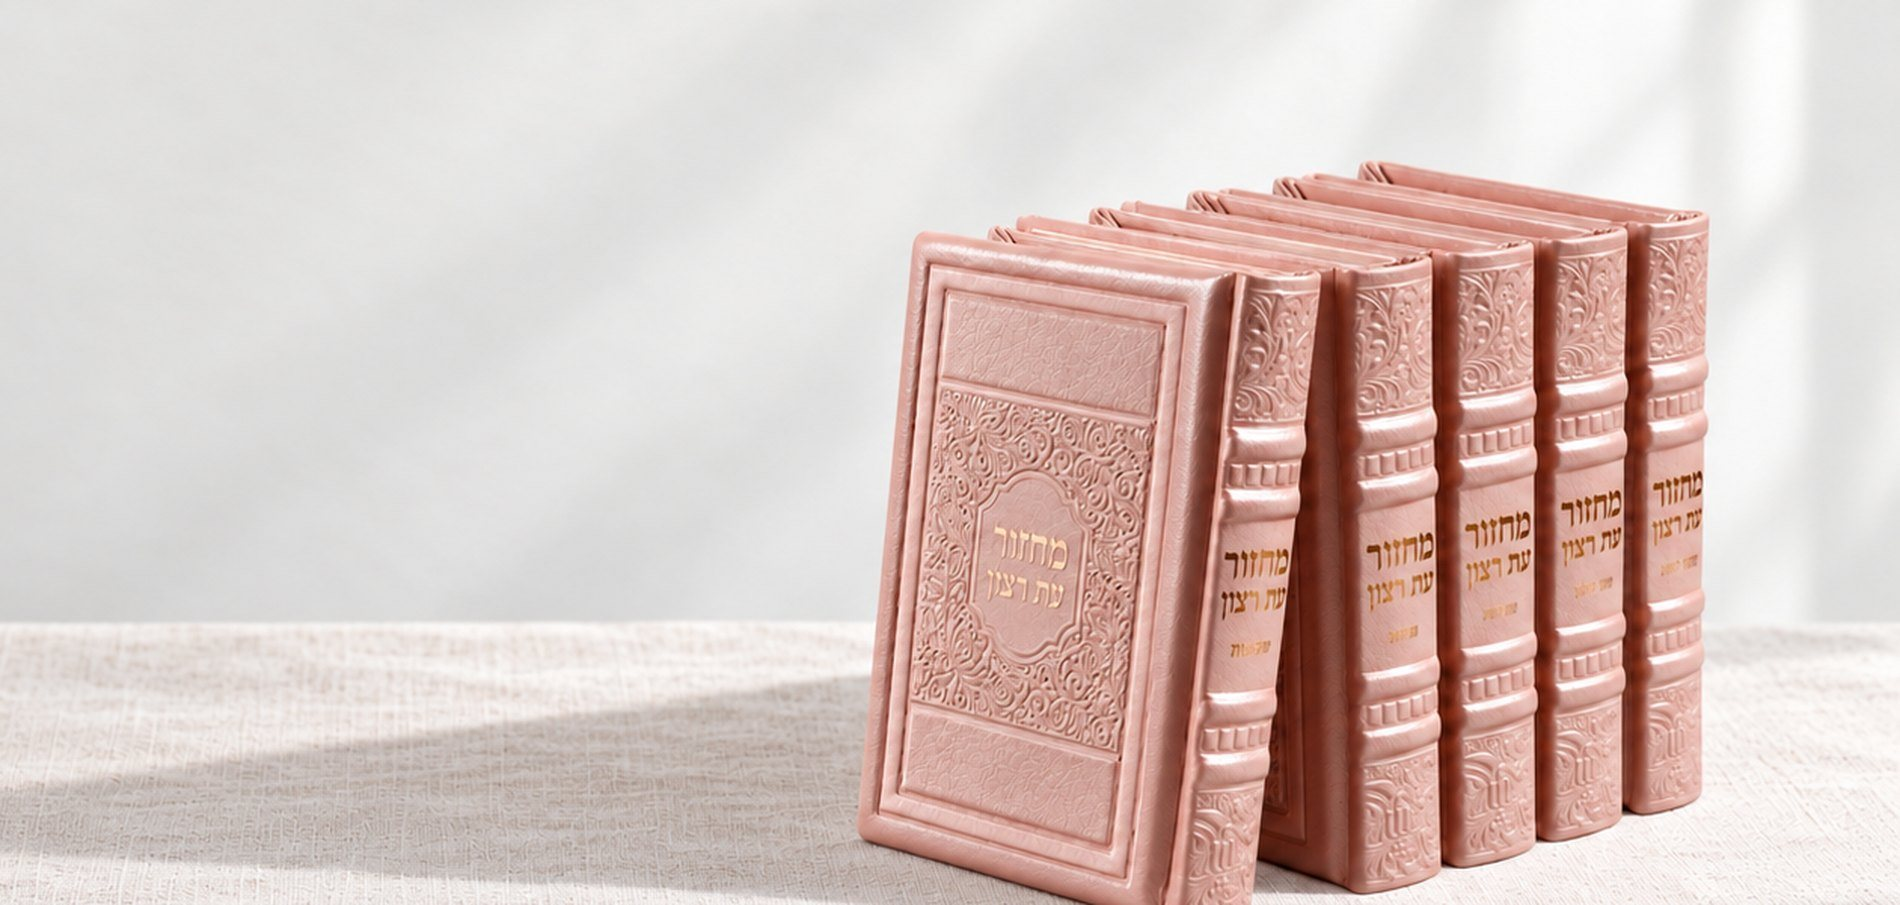
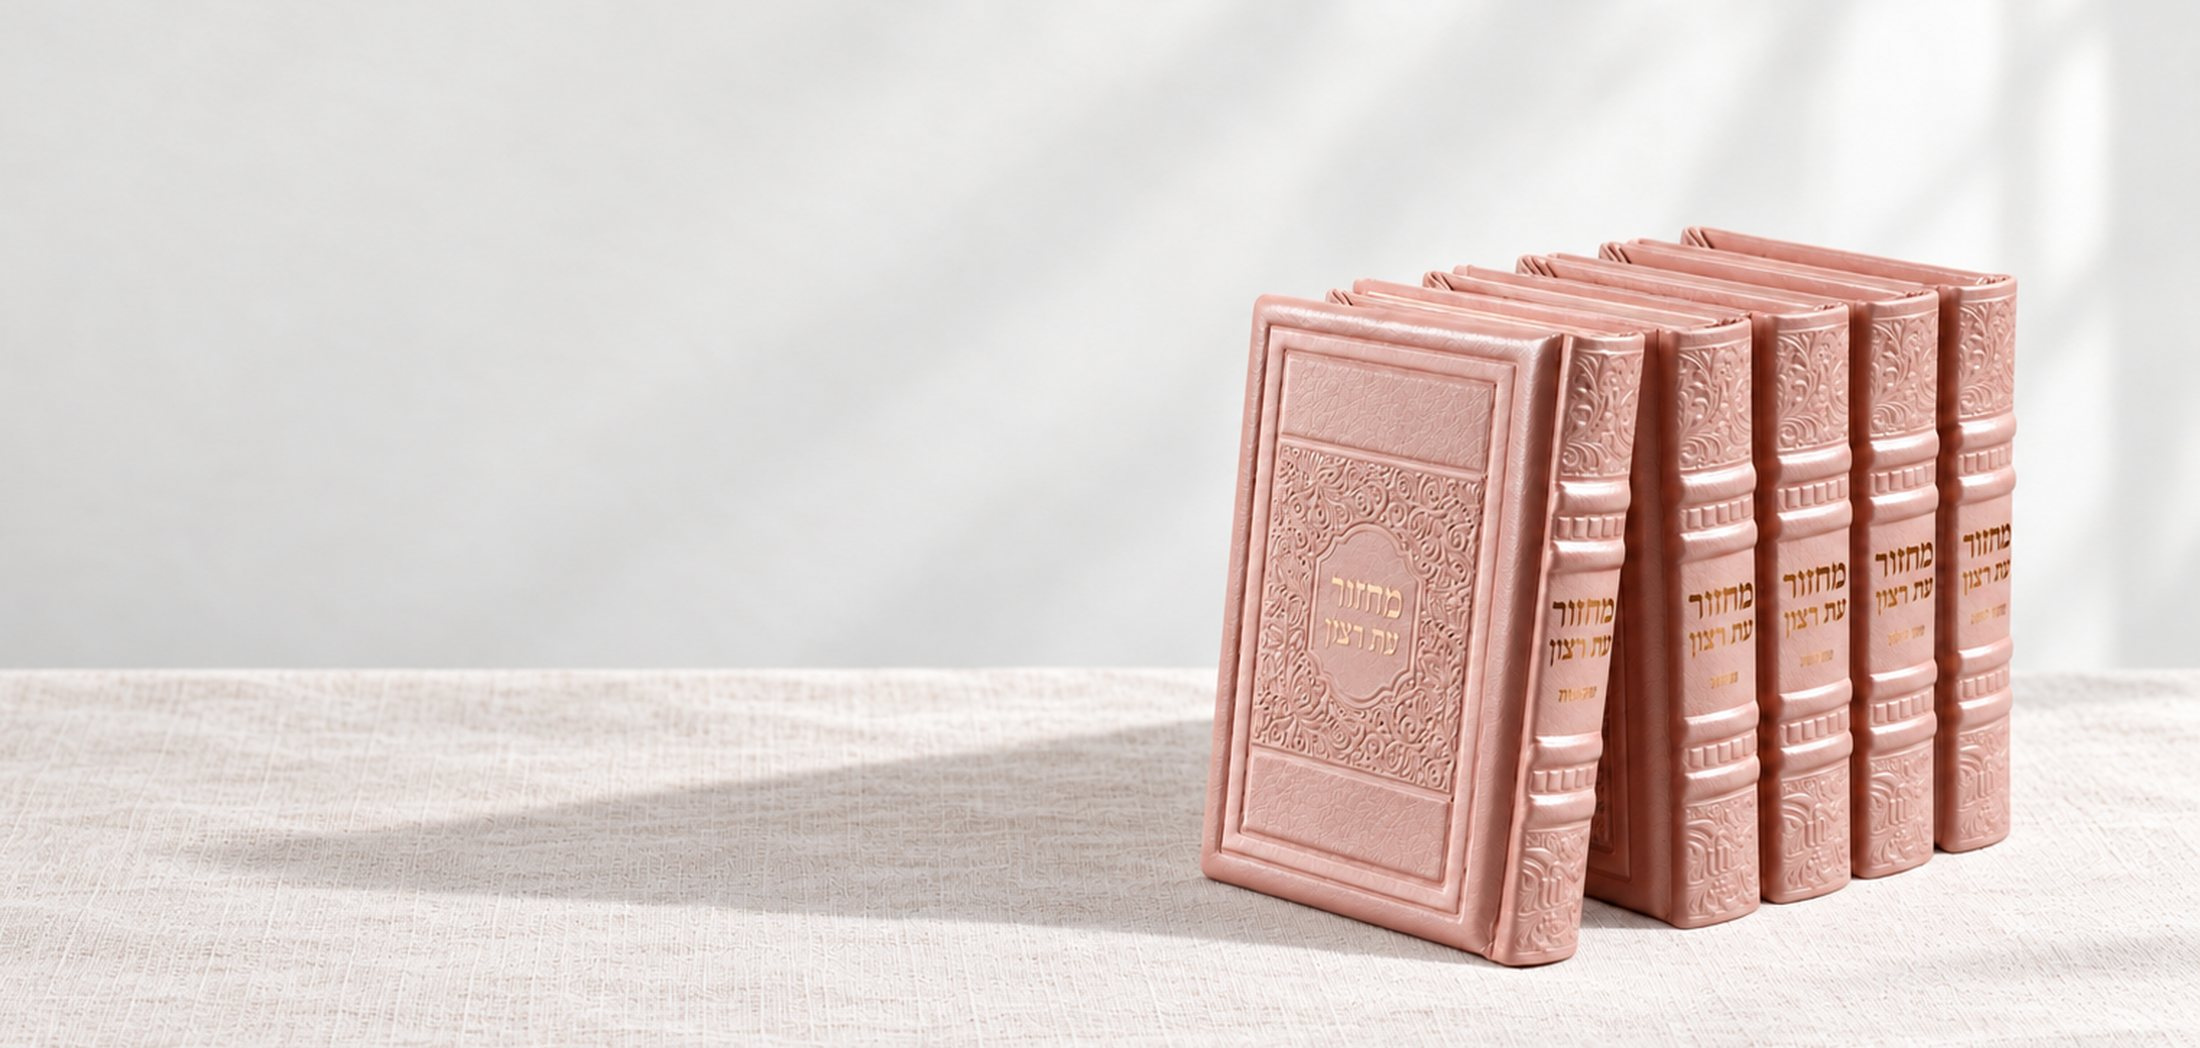
סליידר בהיר ועדין עם קשת זהב, באנר מחזורים מורחק

diff --git a/index.html b/index.html
@@ -1043,6 +1043,20 @@ p, .lead, .sub, li, figcaption, blockquote { text-wrap: pretty; }
   .shelf2 { height: 120px; } .shelf2 a:nth-child(4) { display: none; } .shelf2 a { width: 30%; }
 }
 @media (prefers-reduced-motion: reduce) { .shelf2 a { transition: none; } }
+
+/* v16 light hero: soft ivory behind every slide, dark words, also on phones */
+.hc-track { background: #F1ECE4; }
+.hc-card.light { background: #F1ECE4; }
+.hc-card.light::after { background: linear-gradient(to left, rgba(246,242,235,.78) 0%, rgba(246,242,235,.32) 40%, transparent 60%); }
+.hc-card.light .btn.solid { background: var(--navy); color: #fff; }
+.hc-card.light .tlink { color: var(--ink); }
+.hc-card.light .hc-no { color: var(--ink-3); }
+.hc-nav .rb, .hc-dots { background: rgba(25,22,19,.32); }
+.feat .pz { inset: -4% 0; }
+@media (max-width: 860px) {
+  .hc-card.light { color: var(--ink); } .hc-card.light .kick { color: var(--gold); } .hc-card.light .sub { color: var(--ink-2); } .hc-card.light em { color: var(--gold); }
+  .hc-card.light .btn.solid { background: var(--navy); color: #fff; }
+}
 </style>
 
 <div class="app" dir="rtl" lang="he" id="app">
@@ -1364,10 +1378,10 @@ p, .lead, .sub, li, figcaption, blockquote { text-wrap: pretty; }
 
   /* ---------- hero: cinematic card carousel ---------- */
   const SLIDES = [
-    { img: IMG.hero, m: IMG.heroM, tone: 'dark', pos: '30% 50%', ey: 'בס״ד · מרכז הסידורים', h: 'ספרי קודש, <em>כמו שצריך.</em>', sub: 'סידורים, מחזורים, תהילים וחומשים בכל הנוסחים, בכריכות עור ועם הקדשה אישית.', cta: ['לכל הסידורים', '#c-siddur'], cta2: ['בחירה לפי נוסח', '#nusach'], tag: [ic('nusach'), 'סידור רויאל, כריכת עור'], pid: 2614 },
-    { img: 'gen4/hero-2.jpg', tone: 'dark', pos: '22% 50%', ey: 'לקראת החגים', h: 'מחזור אחד, <em>לכל השנה.</em>', sub: 'סטים מלאים לראש השנה, יום כיפור ושלושת הרגלים, בכל הנוסחים.', cta: ['למחזורים', '#c-machzor'], tag: [ic('machzor'), 'סט מחזורים'], pid: 2078 },
+    { img: 'gen4/hero-l1.jpg', tone: 'light', pos: '28% 50%', ey: 'בס״ד · מרכז הסידורים', h: 'ספרי קודש, <em>כמו שצריך.</em>', sub: 'סידורים, מחזורים, תהילים וחומשים בכל הנוסחים, בכריכות עור ועם הקדשה אישית.', cta: ['לכל הסידורים', '#c-siddur'], cta2: ['בחירה לפי נוסח', '#nusach'], tag: [ic('nusach'), 'סידור רויאל, כריכת עור'], pid: 2614 },
+    { img: 'gen4/hero-l2.jpg', tone: 'light', pos: '28% 50%', ey: 'לקראת החגים', h: 'מחזור אחד, <em>לכל השנה.</em>', sub: 'סטים מלאים לראש השנה, יום כיפור ושלושת הרגלים, בכל הנוסחים.', cta: ['למחזורים', '#c-machzor'], tag: [ic('machzor'), 'סט מחזורים'], pid: 2078 },
     { img: 'gen4/slide-mazkeret.jpg', tone: 'light', pos: '30% 50%', ey: 'מזכרות לאירועים', h: 'מזכרת לכל אורח, <em>עם הקדשה.</em>', sub: 'ברכונים ושירונים בכמות לחתונה, לבר מצווה ולשבע ברכות. הקדשה אחידה לכל הכמות, או שם לכל אחד.', cta: ['למזכרות', '#c-mazkeret'], cta2: ['איך עובדת הקדשה', '#engrave'], tag: [ic('users'), 'הנחה לכמות'], pid: 11835 },
-    { img: 'gen4/hero-3.jpg', tone: 'dark', pos: '25% 55%', ey: 'ספרי לימוד', h: 'ספרייה שלמה, <em>על מדף אחד.</em>', sub: 'ש״ס, משניות וספרי הלכה בסטים מלאים ובכריכות מהודרות.', cta: ['לספרי הלימוד', '#c-limud'], tag: [ic('limud'), 'סטים מלאים'], pid: 12296 }
+    { img: 'gen4/hero-l3.jpg', tone: 'light', pos: '28% 50%', ey: 'ספרי לימוד', h: 'ספרייה שלמה, <em>על מדף אחד.</em>', sub: 'ש״ס, משניות וספרי הלכה בסטים מלאים ובכריכות מהודרות.', cta: ['לספרי הלימוד', '#c-limud'], tag: [ic('limud'), 'סטים מלאים'], pid: 12296 }
   ];
   let hsT = null, hsI = 0; const HS_DUR = 7000; let hsPaused = false;
   function hsGo(i) {
@@ -1538,7 +1552,7 @@ p, .lead, .sub, li, figcaption, blockquote { text-wrap: pretty; }
       '<div class="doors">' + NUSACH.map(n => '<a class="door rv" href="#c-siddur-' + n.id + '" data-pick="' + n.id + '"><img src="gen4/nus-' + n.id + '.jpg" alt="" loading="lazy" draggable="false"><span class="c"><b>' + esc(n.name) + '</b><span>סידורים, מחזורים, ברכונים וזמירות</span><i>לסידורי ' + esc(n.full) + ARW + '</i></span>' + (myNus === n.id ? '<em class="mine">' + ic('check') + 'הנוסח שלכם</em>' : '') + '</a>').join('') + '</div>' +
     '</div></section>' +
 
-    '<section class="feat" aria-labelledby="mz-h"><div class="pz" data-par="0.1"><img src="' + IMG.machzor + '" alt="סט מחזורים עת רצון בכריכת עור ורודה, על מפת פשתן" loading="lazy" style="object-position:50% 50%"></div>' +
+    '<section class="feat" aria-labelledby="mz-h"><div class="pz" data-par="0.1"><img src="' + IMG.machzor + '" alt="סט מחזורים עת רצון בכריכת עור ורודה, על מפת פשתן" loading="lazy" style="object-position:50% 62%"></div>' +
       '<div class="wrap"><div class="tx rv">' + kick('', 'לקראת החגים') + '<h2 class="h2" id="mz-h">סט אחד, כל החגים.</h2><p class="lead">ראש השנה, יום כיפור ושלושת הרגלים, באותה כריכה ובאותו נוסח. אפשר להוסיף הקדשה על כל הסט.</p>' +
       '<div class="ctas"><a class="btn solid mag" href="#c-machzor' + (myNus !== 'all' ? '-' + myNus : '') + '">למחזורים' + BI + '</a><a class="tlink" href="#p-2078">סט עת רצון, סדרת אלגנט' + ARW + '</a></div></div></div>' +
     '</section>' +
